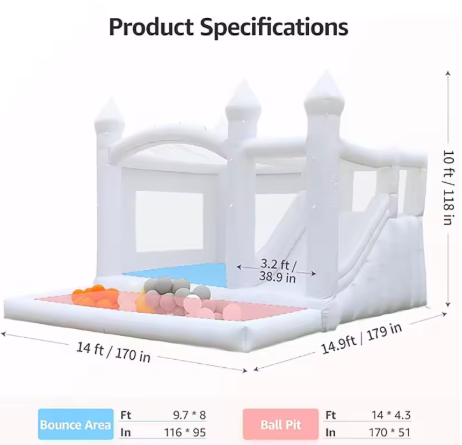
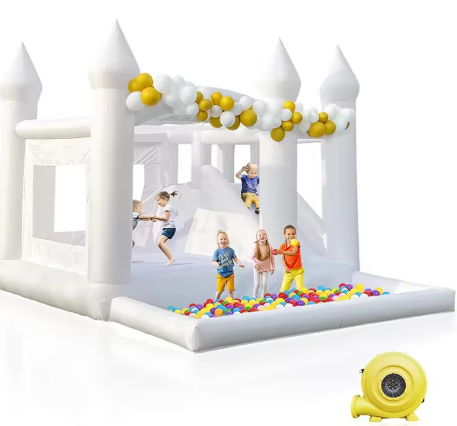
Export from Grok

diff --git a/src/lib/site.ts b/src/lib/site.ts
@@ -16,7 +16,7 @@ export const SITE = {
 
   seoTitle: "White Bouncy Castle Rental Sentosa | Sentosa Bouncy Castle Rental Co",
   seoDescription:
-    "Rent an all-white Oxford bounce house with slide on Sentosa Island. S$249 a day, free delivery and pickup. You set up — we collect. For kids’ birthdays, condos and hotel functions.",
+    "Rent an all-white Oxford bounce house with slide and ball pit on Sentosa Island. S$249 a day, free delivery and pickup. Easy self-setup. For kids’ birthdays, condos and hotel functions.",
 
   whatsappDisplay: "+65 XXXX XXXX",
   whatsappE164: "",
@@ -26,8 +26,11 @@ export const SITE = {
   priceSgd: 249,
   damageNote: "No deposit. You’re billed only if the castle is torn, stained or lost.",
 
-  size: "approximately 4m × 4.5m × 3m (L × W × H)",
-  sizeShort: "4m × 4.5m × 3m",
+  size: "4.3m × 4.5m × 3.0m (14 ft × 14.9 ft × 10 ft)",
+  sizeShort: "4.3m × 4.5m × 3.0m",
+  bounceArea: "2.96m × 2.44m (9.7 ft × 8 ft)",
+  ballPit: "4.3m × 1.3m (14 ft × 4.3 ft) — plastic balls not included",
+  clearSpace: "about 5.5m × 5.5m of reasonably flat ground; 3.2m+ ceiling if indoors",
   material: "All-white Oxford inflatable",
 
   deliveryWindows: [
@@ -44,30 +47,30 @@ export const SITE = {
 
 export const PHOTOS = {
   hero: {
-    src: "/images/hero.jpg",
-    alt: "All-white bounce house with slide on a tropical Sentosa villa lawn at golden hour",
-    caption: "Placeholder — swap /public/images/hero.jpg with a real party photo.",
+    src: "/images/hero.jpg?v=3",
+    alt: "All-white bounce house with slide, ball pit and gold balloon garland on turf at dusk",
+    caption: "",
   },
   gallery: [
     {
-      src: "/images/gallery-entrance.jpg",
-      alt: "Arched entrance of the all-white bounce house in a tropical garden",
-      caption: "Placeholder — swap gallery-entrance.jpg",
+      src: "/images/gallery-entrance.jpg?v=3",
+      alt: "Front view of the all-white bounce house with slide and ball pit",
+      caption: "",
     },
     {
-      src: "/images/gallery-courtyard.jpg",
-      alt: "All-white bounce house with slide in a luxury condominium courtyard",
-      caption: "Placeholder — swap gallery-courtyard.jpg",
+      src: "/images/gallery-courtyard.jpg?v=3",
+      alt: "Studio view of the white bounce house with pastel balloons, slide and ball pit",
+      caption: "",
     },
     {
-      src: "/images/gallery-slide.jpg",
-      alt: "Close-up of the white inflatable slide",
-      caption: "Placeholder — swap gallery-slide.jpg",
+      src: "/images/gallery-slide.jpg?v=3",
+      alt: "White inflatable slide and front ball pit",
+      caption: "",
     },
     {
-      src: "/images/gallery-dusk.jpg",
-      alt: "All-white bounce house on a hotel lawn at dusk",
-      caption: "Placeholder — swap gallery-dusk.jpg",
+      src: "/images/gallery-dusk.jpg?v=3",
+      alt: "Children playing in the all-white bounce house with slide and ball pit",
+      caption: "",
     },
   ],
 } as const;

diff --git a/src/components/site/rules.tsx b/src/components/site/rules.tsx
@@ -4,16 +4,16 @@ const RULES = [
     body: "Free delivery and pickup are for Sentosa Island only. We do not offer islandwide free delivery.",
   },
   {
-    title: "Self-setup",
-    body: "We deliver and pick up. You inflate, supervise, and pack down. We do not set up or staff the castle.",
+    title: "Easy self-setup",
+    body: "We deliver and pick up. Inflation takes a few minutes with the blower included; pack-down is just as simple. We don’t stay on site.",
   },
   {
     title: "Power point",
-    body: "The blower needs a nearby 13A power point for the whole booking. No power, no bounce.",
+    body: "Please have a nearby 13A power point ready for the blower for the whole booking.",
   },
   {
     title: "Clear space",
-    body: `You need a reasonably flat, clear area larger than ${"4m × 4.5m"} — lawn, function deck, or indoor hall with ceiling height to spare.`,
+    body: "You need about 5.5m × 5.5m of reasonably flat ground — the castle is 4.3m × 4.5m including the ball pit — and 3.2m+ ceiling if indoors.",
   },
   {
     title: "Damage",
@@ -21,7 +21,7 @@ const RULES = [
   },
   {
     title: "Supervision",
-    body: "An adult must supervise children the entire time the castle is inflated. This is not a staffed attraction.",
+    body: "Please have an adult supervising children whenever the castle is inflated.",
   },
 ];
 
@@ -33,7 +33,7 @@ export function Rules() {
           Fine print
         </p>
         <h2 className="mt-3 max-w-xl font-serif text-4xl font-medium tracking-tight sm:text-5xl">
-          Please read this before you book.
+          A few practical notes.
         </h2>
 
         <div className="mt-12 grid gap-4 sm:grid-cols-2 lg:grid-cols-3">

diff --git a/src/components/site/how-it-works.tsx b/src/components/site/how-it-works.tsx
@@ -7,17 +7,17 @@ const STEPS = [
   {
     n: "02",
     title: "We deliver",
-    body: "We drop the packed castle and blower at your condo or hotel on Sentosa. That’s our job.",
+    body: "We drop the packed castle and blower at your condo or hotel on Sentosa.",
   },
   {
     n: "03",
-    title: "You inflate & enjoy",
-    body: "Plug in a nearby power point, inflate, and host. Adult supervision is on you for the whole booking.",
+    title: "Inflate & enjoy",
+    body: "Plug in a nearby power point and inflate — it takes a few minutes. An adult should supervise while it’s up.",
   },
   {
     n: "04",
     title: "We collect",
-    body: "You pack it down dry. We pick up the same evening or the next morning — your choice.",
+    body: "Pack it down dry when you’re done. We pick up the same evening or the next morning.",
   },
 ];
 
@@ -29,11 +29,11 @@ export function HowItWorks() {
           How it works
         </p>
         <h2 className="mt-3 max-w-xl font-serif text-4xl font-medium tracking-tight sm:text-5xl">
-          Four steps. You do the middle.
+          Four simple steps.
         </h2>
         <p className="mt-4 max-w-xl text-base leading-relaxed text-stone">
-          We do not set up, inflate, staff, or pack down the castle. If that
-          isn’t the arrangement you want, we aren’t the right rental.
+          We bring it to you, you host the party, we take it away. Inflation
+          and pack-down are straightforward — blower included.
         </p>
 
         <ol className="mt-14 grid gap-px overflow-hidden rounded-2xl bg-line shadow-soft sm:grid-cols-2 lg:grid-cols-4">

diff --git a/src/components/site/footer.tsx b/src/components/site/footer.tsx
@@ -12,8 +12,8 @@ export function Footer() {
             <p className="font-serif text-xl font-medium">{SITE.name}</p>
           </div>
           <p className="mt-3 max-w-sm text-sm leading-relaxed text-stone">
-            All-white bounce house rental for Sentosa Island. S${SITE.priceSgd} a
-            day. We deliver and collect — you set up and pack down.
+            All-white bounce house with slide and ball pit, Sentosa Island. S$
+            {SITE.priceSgd} a day, free delivery and pickup.
           </p>
         </div>
         <div className="text-sm text-stone">
@@ -39,11 +39,11 @@ export function Footer() {
       </div>
       <div className="border-t border-line">
         <p className="mx-auto max-w-6xl px-5 py-6 text-xs leading-relaxed text-mist sm:px-8">
-          {SITE.name} delivers and collects on Sentosa Island only. Customers are
-          responsible for setup, pack-down, adult supervision, and a nearby power
-          point. Bookings are confirmed after we review your enquiry. CE / KC
-          certified equipment. No damage deposit — you’re billed only if the
-          castle is torn, stained or lost.
+          {SITE.name} delivers and collects on Sentosa Island only. Easy
+          self-setup with the blower included; please supervise children and
+          have a nearby power point ready. Bookings are confirmed after we
+          review your enquiry. CE / KC certified equipment. No damage deposit —
+          you’re billed only if the castle is torn, stained or lost.
           {isWhatsAppReady() ? "" : " WhatsApp number not yet connected."}
         </p>
       </div>

diff --git a/src/components/site/specs.tsx b/src/components/site/specs.tsx
@@ -1,13 +1,17 @@
 import { SITE } from "@/lib/site";
 
 const ROWS = [
-  { label: "Size", value: SITE.size },
+  { label: "Overall size", value: SITE.size },
+  { label: "Bounce area", value: SITE.bounceArea },
+  { label: "Ball pit", value: SITE.ballPit },
+  { label: "Slide", value: "Attached side slide, about 1.0 m (3.2 ft)" },
   { label: "Material", value: SITE.material },
-  { label: "Layout", value: "Bounce house with attached slide" },
+  { label: "Layout", value: "Bounce house + slide + ball pit (3-in-1)" },
+  { label: "Clear space", value: SITE.clearSpace },
   { label: "Power", value: "Blower included. Nearby 13A power point required." },
-  { label: "Setup", value: "Self-setup and self pack-down. We do not inflate or staff." },
+  { label: "Setup", value: "Easy self-setup — we deliver and collect. Inflation takes a few minutes with the blower included." },
   { label: "Safety", value: "CE / KC certified. Suitable for kids’ parties with adult supervision." },
-  { label: "Best for", value: "Birthdays, condo functions, hotel events on Sentosa." },
+  { label: "Best for", value: "Birthdays, condo functions, hotel events on Sentosa. Outdoor lawns preferred; indoor only with 3.2 m+ ceiling." },
   { label: "Where we go", value: "Sentosa Island only for free delivery and pickup." },
 ];
 

diff --git a/src/components/site/gallery.tsx b/src/components/site/gallery.tsx
@@ -27,10 +27,8 @@ export function Gallery() {
             Quiet white. Made for lawns and function rooms.
           </h2>
           <p className="mt-4 text-base leading-relaxed text-stone">
-            All-white Oxford inflatable with slide — not a carnival. The photos
-            below are style placeholders; swap the files in{" "}
-            <span className="text-ink">/public/images/</span> for real party
-            shots when you have them.
+            All-white Oxford inflatable with bounce area, slide and front ball
+            pit. Same castle we deliver. Balloons are styling — not included.
           </p>
         </div>
 
@@ -53,9 +51,11 @@ export function Gallery() {
                 alt={photo.alt}
                 className="img-frame size-full object-cover transition-transform duration-500 ease-out group-hover:scale-[1.03]"
               />
+              {photo.caption ? (
               <span className="pointer-events-none absolute inset-x-0 bottom-0 bg-linear-to-t from-ink/50 to-transparent p-4 pt-10 text-xs text-cream opacity-0 transition-opacity duration-200 group-hover:opacity-100 group-focus:opacity-100">
                 {photo.caption}
               </span>
+              ) : null}
             </button>
           ))}
         </div>

diff --git a/src/components/site/hero.tsx b/src/components/site/hero.tsx
@@ -27,9 +27,9 @@ export function Hero() {
               The all-white bounce house for Sentosa.
             </h1>
             <p className="mt-5 max-w-xl text-base leading-relaxed text-cream/85 sm:text-lg">
-              An Oxford inflatable with slide.{" "}
+              An Oxford inflatable with bounce area, slide and ball pit.{" "}
               <span className="text-cream">S${SITE.priceSgd} a day</span>, free
-              delivery and pickup on Sentosa Island. You inflate it. We collect it.
+              delivery and pickup on Sentosa Island.
             </p>
             <div className="mt-8 flex flex-col gap-3 sm:flex-row sm:items-center">
               <a
@@ -41,7 +41,7 @@ export function Hero() {
               <WhatsAppLink variant="outline" size="lg" className="h-12 border-cream/30 text-cream hover:bg-cream/10 hover:border-cream/50" />
             </div>
             <p className="mt-6 text-sm text-cream/75">
-              CE / KC certified · We deliver and pick up only — you set up and pack down
+              CE / KC certified · Easy self-setup · Sentosa delivery and pickup
             </p>
           </div>
         </div>

diff --git a/src/components/site/booking.tsx b/src/components/site/booking.tsx
@@ -257,7 +257,7 @@ export function Booking() {
                   />
                   <CheckRow
                     name="selfSetup"
-                    label="I will set up and pack down the castle myself. You only deliver and collect."
+                    label="I’ll take care of inflating and packing down — you deliver and collect."
                   />
                   <CheckRow
                     name="powerPoint"
@@ -288,9 +288,9 @@ export function Booking() {
             <ul className="mt-4 space-y-3 text-sm leading-relaxed text-stone">
               <li>S${SITE.priceSgd} per day</li>
               <li>Free delivery & pickup on Sentosa only</li>
-              <li>You inflate, supervise, and pack down</li>
+              <li>Easy self-setup · blower included</li>
               <li>Blower included · power point required</li>
-              <li>{SITE.sizeShort}</li>
+              <li>{SITE.sizeShort} · bounce, slide, ball pit</li>
               <li>{SITE.damageNote}</li>
             </ul>
             <div className="mt-6">

diff --git a/src/components/site/pricing.tsx b/src/components/site/pricing.tsx
@@ -4,15 +4,16 @@ import { buttonVariants } from "@/components/ui/button";
 import { cn } from "@/lib/utils";
 
 const included = [
-  "All-white Oxford bounce house with slide",
+  "All-white Oxford bounce house, slide and ball pit",
   "Electric blower",
   "Free delivery on Sentosa Island",
   "Free pickup on Sentosa Island",
 ];
 
 const notIncluded = [
-  "Setup or pack-down — that’s you",
+  "On-site setup or staffing",
   "Staffing or on-site supervision",
+  "Plastic balls for the pit",
   "Islandwide or mainland delivery",
 ];
 

diff --git a/src/components/site/notice.tsx b/src/components/site/notice.tsx
@@ -2,9 +2,8 @@ export function Notice() {
   return (
     <div className="border-b border-line bg-paper-deep">
       <p className="mx-auto max-w-6xl px-5 py-3.5 text-center text-sm text-ink sm:px-8">
-        We only deliver and pick up.{" "}
-        <span className="font-medium">You set up and pack down yourselves.</span>{" "}
-        Free on Sentosa Island — nowhere else.
+        Free delivery and pickup on Sentosa Island. Easy self-setup — blower
+        included.
       </p>
     </div>
   );
